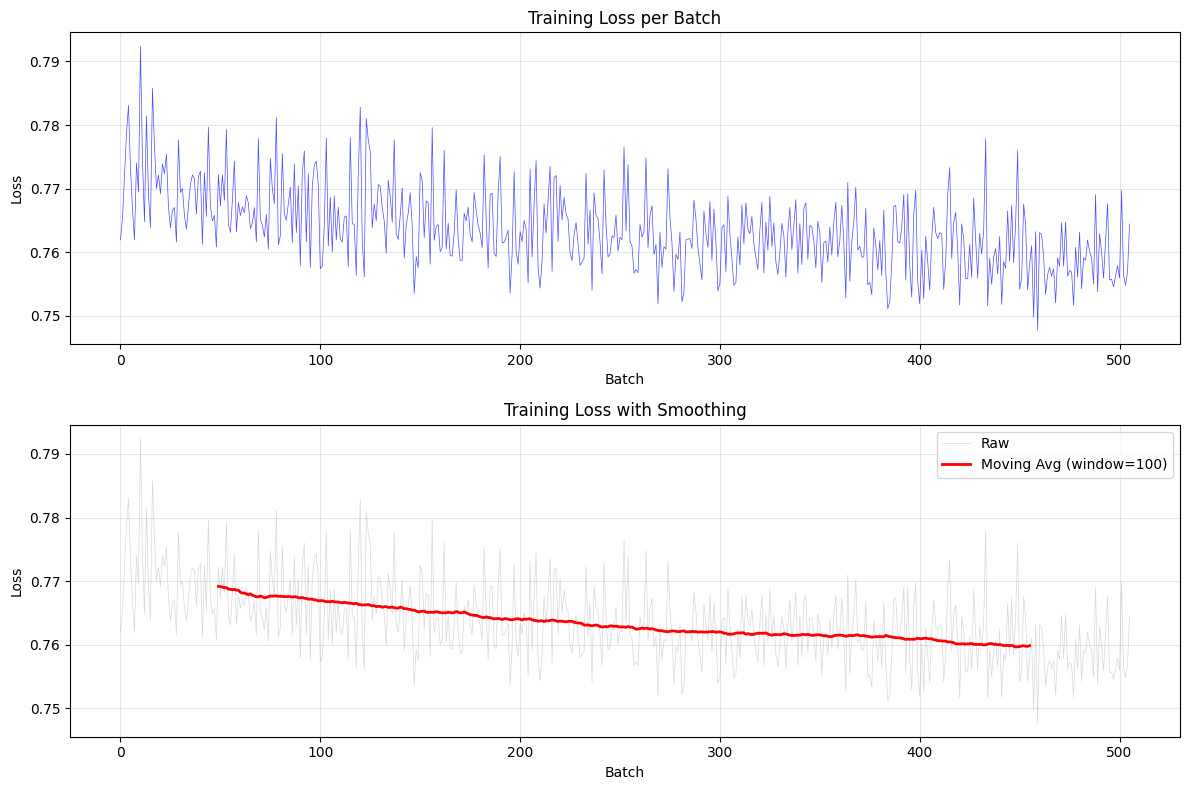
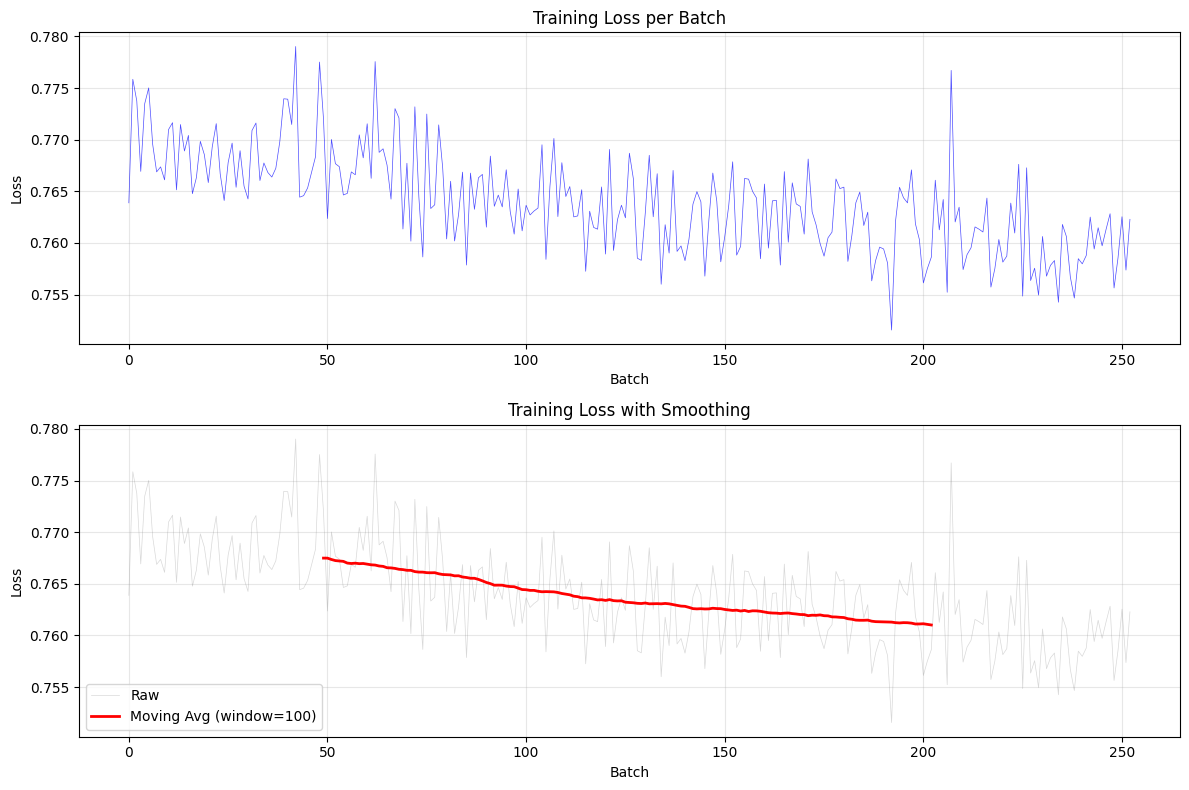
Images

diff --git a/examples/language_modelling/pre-train/train_dao_wandb_signal.py b/examples/language_modelling/pre-train/train_dao_wandb_signal.py
@@ -378,7 +378,7 @@ def train_language_model_distributed(rank, world_size):
         device = torch.device('cpu')
         print(f"WARNING: CUDA not available, using CPU")
 
-    result_dir = "./results"
+    result_dir = "./results_signal"
     if rank == 0:
         os.makedirs(result_dir, exist_ok=True)
         print(f"Result directory: {result_dir}")
@@ -386,11 +386,11 @@ def train_language_model_distributed(rank, world_size):
 
     # Model Parameters
     seq_len = 512
-    d_model = 512
+    d_model = 768
     num_layers = 16
     num_heads = 8
     dropout = 0.1
-    num_harmonics = 32
+    num_dimensions = 64
 
     # Hyperparameters - adjust batch size per GPU
     epochs = 5
@@ -414,7 +414,7 @@ def train_language_model_distributed(rank, world_size):
                 "num_layers": num_layers,
                 "num_heads": num_heads,
                 "dropout": dropout,
-                "num_harmonics": num_harmonics,
+                "num_dimensions": num_dimensions,
                 "epochs": epochs,
                 "batch_size": batch_size * world_size,
                 "batch_size_per_gpu": batch_size,
@@ -459,13 +459,13 @@ def train_language_model_distributed(rank, world_size):
     vocab_size = train_tokenizer.get_vocab_size()
  #
     def load_dao_teachings():
-        with open("corpus.json", "r", encoding="utf-8") as file:
+        with open("dao_de_jing.json", "r", encoding="utf-8") as file:
             chapters = json.load(file)
         random.shuffle(chapters)
         random.shuffle(chapters)
         texts = [chapter["text"] for chapter in chapters]
         factor = int(len(texts) * 0.97)
-        train_corpus = texts * 3
+        train_corpus = texts * 50
         random.shuffle(train_corpus)
         random.shuffle(train_corpus)
         random.shuffle(train_corpus)
@@ -528,28 +528,30 @@ def train_language_model_distributed(rank, world_size):
             signal_name="frequency",
             torch_activation_function=torch.sigmoid,
             normalization=linear_norm(scale=20.0, offset=0.1),
-            num_dimensions=32
+            num_dimensions=64
         ),
         SignalConfig(
             signal_name="amplitude",
             torch_activation_function=torch.nn.functional.softplus,
             normalization=linear_norm(scale=1.0, offset=0.0),
-            num_dimensions=32
+            num_dimensions=64
         ),
         SignalConfig(
             signal_name="phase",
             torch_activation_function=torch.tanh,
             normalization=linear_norm(scale=np.pi, offset=0.0),
-            num_dimensions=32
+            num_dimensions=64
         ),
     ]
+    input_dim = sum([signal.num_dimensions for signal in signal_configs])
     signal_transformer_model = SignalTransformer(
         vocab_size=tokenizer.get_vocab_size(),
         signals=signal_configs,
         encoder_d_model=d_model,
         decoder_d_model=d_model,
-        transformer_layer_config=TransformerParallelBlockConfig(d_model=32 * 3, max_seq_len=seq_len), # 3 Signals with each 32 dimensions
-        encoder_layer_config=TransformerParallelBlockConfig(d_model=d_model, max_seq_len=seq_len),
+        transformer_num_layers=num_layers,
+        transformer_layer_config=TransformerParallelBlockConfig(num_heads_q=num_heads, num_heads_kv=num_heads, max_seq_len=seq_len, d_ff=input_dim * 4), # 3 Signals with each 32 dimensions
+        encoder_layer_config=TransformerParallelBlockConfig(num_heads_q=num_heads, num_heads_kv=num_heads, max_seq_len=seq_len),
         max_seq_len=seq_len,
     ).to(device)
 
